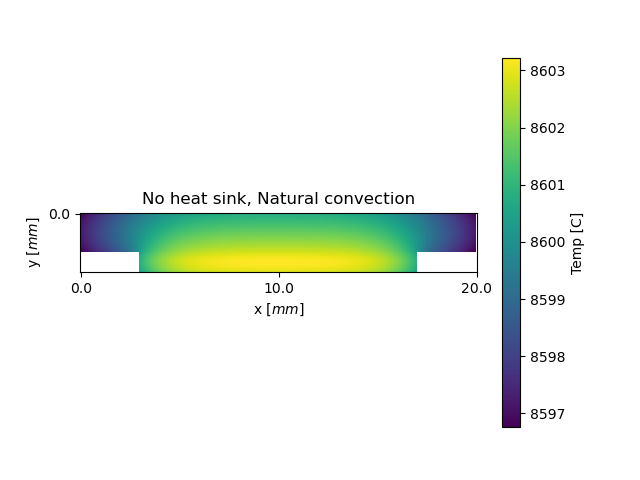
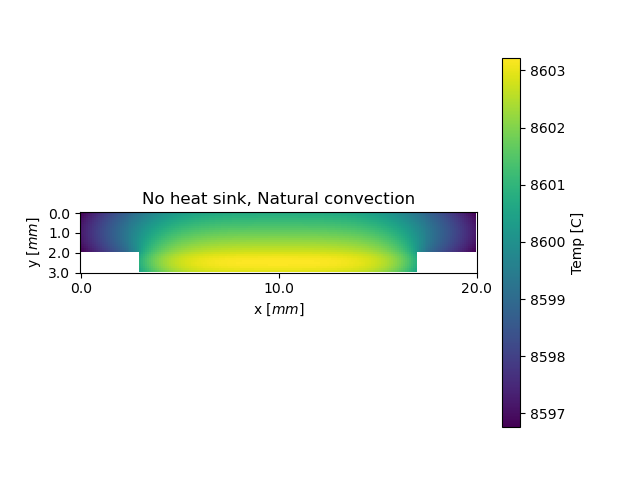
graph

Changed region(s): [[0.0625, 0.5625, 0.75, 0.5938], [0.125, 0.4375, 0.75, 0.4688], [0.0625, 0.4688, 0.125, 0.5312]]

diff --git a/project_4/create_grid.py b/project_4/create_grid.py
@@ -167,7 +167,7 @@ class grid():
             plt.xlabel('x $[mm]$')
             plt.ylabel('y $[mm]$')
             plt.xticks(np.arange(0, Temp.shape[1]+0.01, 100), np.arange(0, Temp.shape[1]+0.01, 100)*self.d*1e3)
-            plt.yticks(np.arange(0, Temp.shape[0]+0.01, 100), np.arange(0, Temp.shape[0]+0.01, 100)*self.d*1e3)
+            plt.yticks(np.arange(0, Temp.shape[0]+0.01, 10), np.arange(0, Temp.shape[0]+0.01, 10)*self.d*1e3)
             if self.debug == True:
                 for i in range(self.T.shape[0]):
                     for j in range(self.T.shape[1]):
